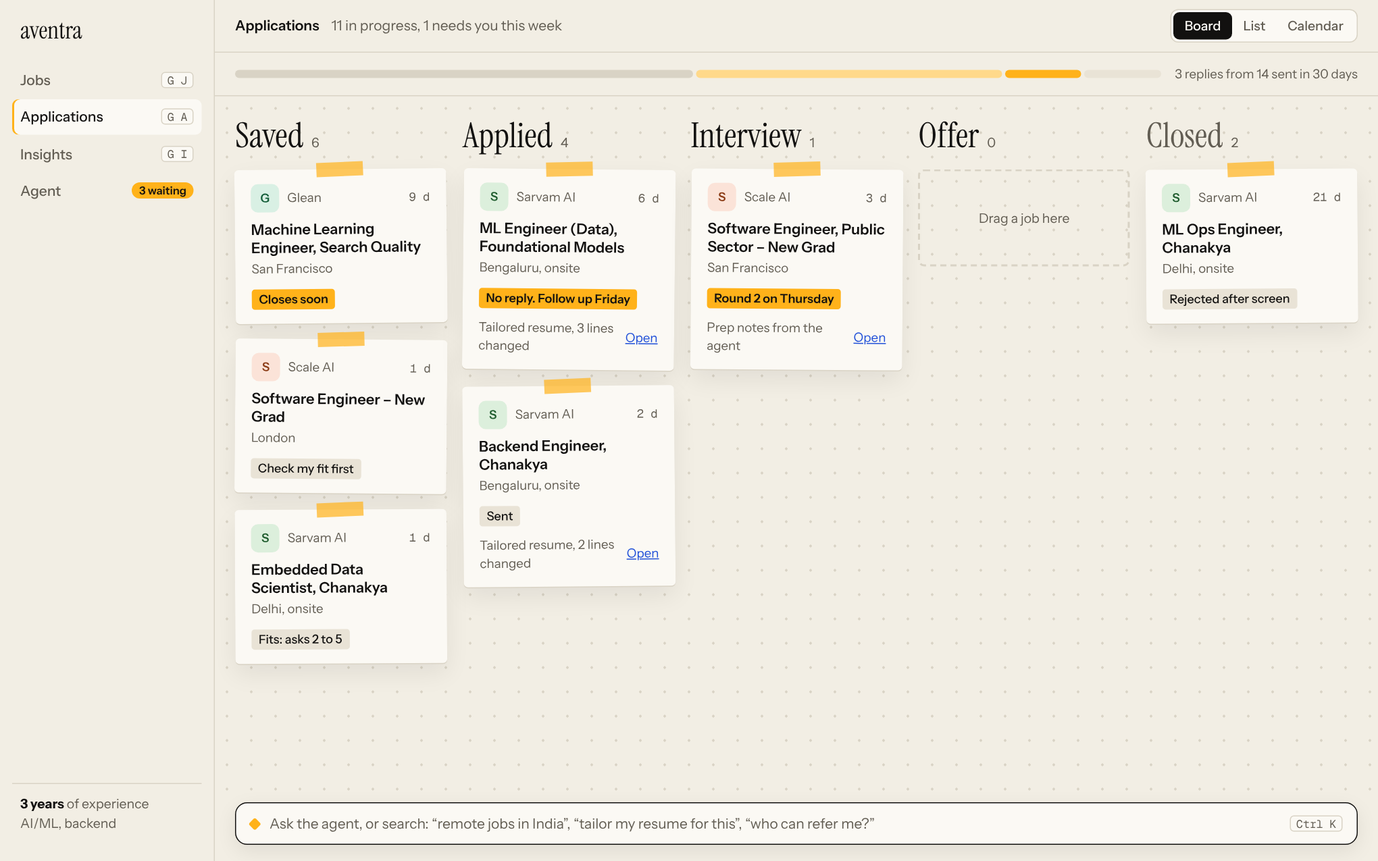
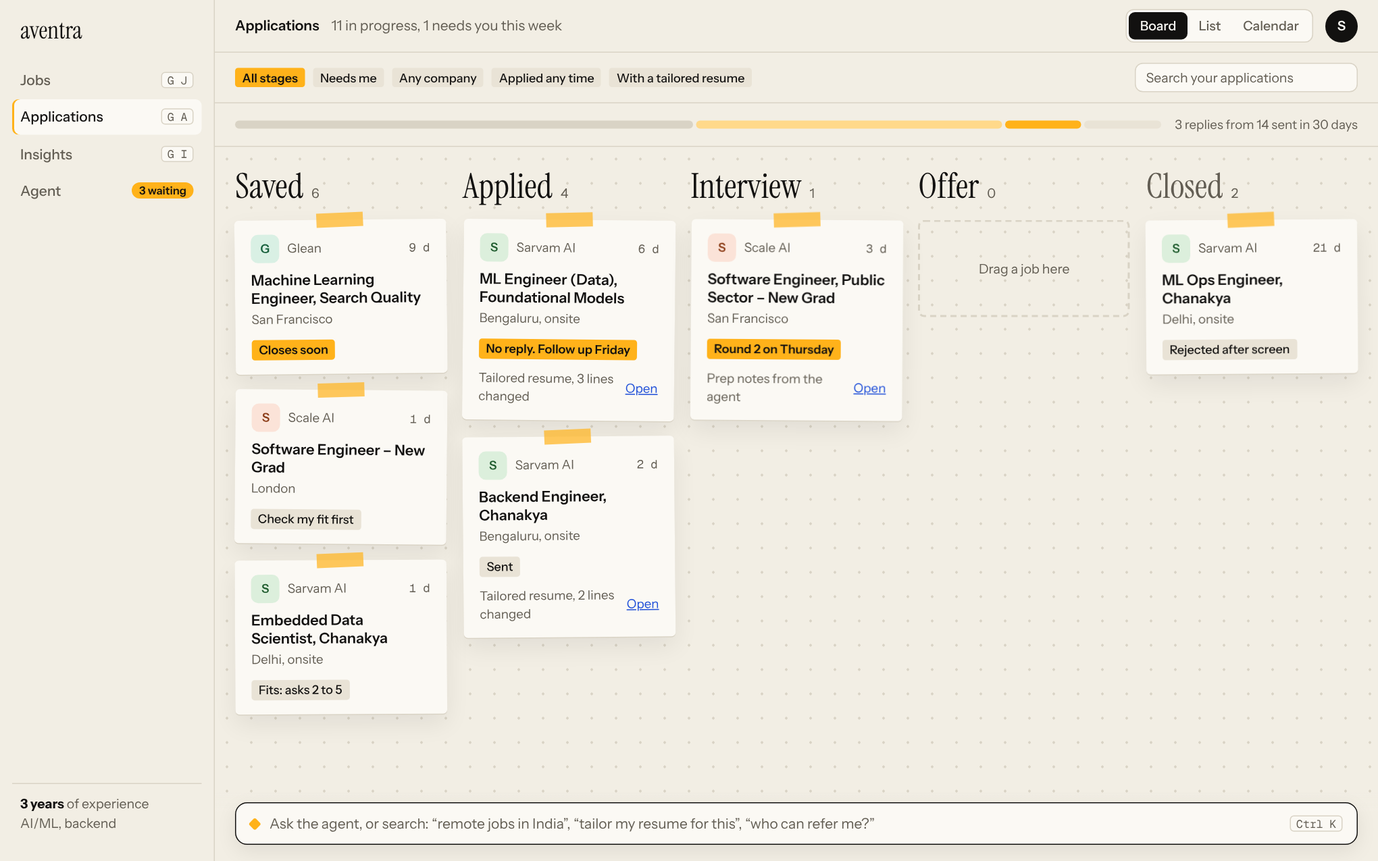
docs: approved app layout, and the worldwide plan rewritten for all roles matched per person
Claude-Session: https://claude.ai/code/session_01BqkopMriTGGXzer1ym3YQQ

diff --git a/docs/wireframes/app-v2.html b/docs/wireframes/app-v2.html
@@ -47,7 +47,11 @@
   main { display: flex; flex-direction: column; min-width: 0; }
   .top { display: flex; align-items: center; gap: 12px; height: 52px; padding: 0 20px; border-bottom: 1px solid var(--line); font-weight: 600; flex: none; }
   .top > span { font-weight: 400; color: var(--muted); }
-  .seg { margin-left: auto; display: flex; border: 1px solid var(--line); border-radius: 8px; padding: 2px; font-weight: 500; font-size: 13px; background: var(--raised); }
+  .bar { display: flex; gap: 8px; align-items: center; padding: 10px 20px; border-bottom: 1px solid var(--line); }
+  .bar .find { margin-left: auto; border: 1px solid var(--line); background: var(--raised); border-radius: 8px; padding: 4px 10px; color: var(--muted); font-size: 13px; width: 220px; }
+  .right { margin-left: auto; display: flex; align-items: center; gap: 12px; }
+  .who { width: 32px; height: 32px; border-radius: 50%; background: var(--ink); color: var(--raised); display: grid; place-items: center; font-weight: 600; font-size: 13px; }
+  .seg { display: flex; border: 1px solid var(--line); border-radius: 8px; padding: 2px; font-weight: 500; font-size: 13px; background: var(--raised); }
   .seg b { padding: 4px 11px; font-weight: 500; color: var(--muted); border-radius: 6px; } .seg b.on { background: var(--ink); color: var(--raised); }
   .body { flex: 1; min-height: 0; }
   .ask { position: sticky; bottom: 0; padding: 10px 20px 16px; background: linear-gradient(transparent, var(--paper) 30%); }
@@ -131,19 +135,16 @@ const NAV = [["jobs", "Jobs", ""], ["apps", "Applications", ""], ["insights", "I
 const shell = (title, sub, seg, body, ask = true) => `<div class="app"><aside><div class="brand">aventra</div>
   ${NAV.map(([k, l, x]) => `<a class="${k === s || (k === "agent" && s === "resumes") ? "on" : ""}">${l}${x || `<kbd>G ${l[0]}</kbd>`}</a>`).join("")}
   <div class="me"><b>3 years</b> <span class="mu">of experience</span><br><span class="mu">AI/ML, backend</span></div></aside>
-  <main><div class="top">${title} <span>${sub}</span>${seg ? `<div class="seg">${seg[0].map((x, i) => `<b class="${i === seg[1] ? "on" : ""}">${x}</b>`).join("")}</div>` : ""}</div>
+  <main><div class="top">${title} <span>${sub}</span><div class="right">${seg ? `<div class="seg">${seg[0].map((x, i) => `<b class="${i === seg[1] ? "on" : ""}">${x}</b>`).join("")}</div>` : ""}<span class="who" title="Profile and sign out">S</span></div></div>
   <div class="body">${body}</div>
   ${ask ? `<div class="ask"><div><i class="spark"></i>Ask the agent, or search: “remote jobs in India”, “tailor my resume for this”, “who can refer me?”<kbd>Ctrl K</kbd></div></div>` : ""}</main></div>`;
 
 const V = {
   jobs() {
     const row = (j, sel) => `<div class="row ${sel ? "sel" : ""}" style="grid-template-columns:28px 1fr 60px 96px">${co(j[1])}<div style="min-width:0"><div class="clip" style="font-weight:500">${j[6] ? '<span class="hl" style="font-size:11px;font-weight:600;margin-right:6px">New</span>' : ""}${j[0]}</div><div class="mu clip sm">${j[1]}, ${j[2]}, ${j[3]}</div></div><span class="serif" style="font-size:20px;text-align:right">${j[4] == null ? '<span class="mu" style="font:11px var(--sans)">Not stated</span>' : yrs(j[4], j[5])}</span>${ruler(j[4], j[5])}</div>`;
-    const fits = J.filter((j) => j[4] > 0 && j[4] <= ME), fresh = J.filter((j) => j[4] === 0), ns = J.filter((j) => j[4] == null);
     return shell("Jobs", "33 open for 3 years of experience", [["List", "Board by years", "Map"], 0], `<div style="display:grid;grid-template-columns:1fr 430px;height:100%"><div>
-      <div style="display:flex;gap:8px;padding:10px 20px;border-bottom:1px solid var(--line)"><span class="tag">3 years</span><span class="tag q">AI/ML, backend</span><span class="tag q">Anywhere</span><span class="tag q">Any workplace</span><span class="mu sm" style="margin-left:auto;align-self:center">Grouped by fit</span></div>
-      <div class="grp">Asks for your level <span>2 to 3 years, 21 jobs</span></div>${fits.map((j, i) => row(j, i === 1)).join("")}
-      <div class="grp">Asks for less than you have <span>0 to 1 years, 8 jobs</span></div>${fresh.map((j) => row(j)).join("")}
-      <div class="grp">Years not stated <span>read before applying, 4 jobs</span></div>${ns.map((j) => row(j)).join("")}</div>
+      <div class="bar"><span class="tag">3 years</span><span class="tag q">AI/ML, backend</span><span class="tag q">Anywhere</span><span class="tag q">Any workplace</span><span class="tag q">Posted any time</span><span class="mu sm" style="margin-left:auto">Newest first</span></div>
+      ${J.filter((j) => j[4] == null || j[4] <= ME).map((j, i) => row(j, i === 4)).join("")}</div>
       <div class="peek"><div class="mu">Sarvam AI, Bengaluru, onsite</div><h2>ML Engineer (Data), Foundational Models</h2>${ruler(3, null, 370)}
       <blockquote>“<span class="hl">3+ years of experience</span> building large-scale data systems”</blockquote><div class="mu sm">The line that decided it. You have 3, so it fits.</div>
       <div style="display:flex;gap:8px;margin-top:22px;flex-wrap:wrap"><span class="btn">Apply <kbd style="background:none;border-color:rgb(18 17 16/.3);color:var(--ink)">A</kbd></span><span class="btn q">Save <kbd>S</kbd></span><span class="btn q"><i class="spark"></i>Get this ready with the agent</span></div>
@@ -152,6 +153,7 @@ const V = {
   apps() {
     const card = (j, next, days, res, rot, gold = true) => `<div class="note tape" style="transform:rotate(${rot}deg)"><div style="display:flex;gap:8px;align-items:center;margin-bottom:8px">${co(j[1])}<span class="mu sm">${j[1]}</span><span class="mono mu" style="margin-left:auto;font-size:11.5px">${days}</span></div><h4>${j[0]}</h4><p>${j[2]}</p><span class="tag ${gold ? "" : "q"}">${next}</span>${res ? `<div class="foot sm"><span class="mu">${res}</span><span style="color:var(--link);text-decoration:underline">Open</span></div>` : ""}</div>`;
     return shell("Applications", "11 in progress, 1 needs you this week", [["Board", "List", "Calendar"], 0], `
+      <div class="bar"><span class="tag">All stages</span><span class="tag q">Needs me</span><span class="tag q">Any company</span><span class="tag q">Applied any time</span><span class="tag q">With a tailored resume</span><span class="find">Search your applications</span></div>
       <div style="display:flex;align-items:center;gap:14px;padding:12px 20px;border-bottom:1px solid var(--line)"><div style="display:flex;gap:3px;flex:1"><i style="flex:6;height:8px;border-radius:4px;background:var(--line)"></i><i style="flex:4;height:8px;border-radius:4px;background:var(--soft)"></i><i style="flex:1;height:8px;border-radius:4px;background:var(--gold)"></i><i style="flex:1;height:8px;border-radius:4px;background:var(--surface)"></i></div><span class="sm mu">3 replies from 14 sent in 30 days</span></div>
       <div class="board">
       <div><h3>Saved<span>6</span></h3>${card(J[0], "Closes soon", "9 d", "", -.6)}${card(J[2], "Check my fit first", "1 d", "", .5, false)}${card(J[6], "Fits: asks 2 to 5", "1 d", "", -.3, false)}</div>

diff --git a/docs/strategy/worldwide-coverage.md b/docs/strategy/worldwide-coverage.md
@@ -1,16 +1,19 @@
-# Plan: companies and jobs from every country (2026-11-11)
+# Plan: every job, every country, filtered by each person's preferences (2026-11-11)
 
-Shrey's call (2026-11-11): Aventra lists **every country, all jobs**. Someone in Berlin or São
-Paulo should see local jobs, not only jobs open to people in India. This replaces point 3 of
-`company-coverage.md` ("global companies: keep only India, remote, and visa/relocation jobs").
+Shrey's calls (2026-11-11):
 
-**Analogy.** Today Aventra is a city library: it buys only the books its own neighbourhood reads.
-A world board is a national library, and the hard part of a national library is the shelf space
-and the catalogue, not finding books. Most of this plan is about shelves (storage) and the
-catalogue (locations and languages); the list of companies is the easy half.
+1. Aventra lists **every country**. Someone in Berlin or São Paulo sees local jobs. This replaces
+   point 3 of `company-coverage.md` (keep only India, remote and visa/relocation jobs).
+2. Aventra fetches **all jobs, every role**, and **each person filters them by their own
+   preferences**. This replaces the earlier recommendation in this file to keep tech roles only.
 
-Status: a plan. Nothing here is built. Six choices in the last section are Shrey's to make before
-work starts.
+**Analogy.** Today Aventra is a personal shopper: it walks the market with one shopping list
+(`config/profile.yaml`) and brings back only what is on it. The new Aventra is a supermarket:
+everything is on the shelves with an honest label, and each shopper walks in with their own
+list. So the pipeline's job changes from "decide what fits Shrey" to "label every job truthfully",
+and deciding what fits moves to the moment a person looks.
+
+Status: a plan. Nothing here is built. The open choices are in the last section.
 
 ## Where we are
 
@@ -18,121 +21,153 @@ work starts.
 |---|---:|
 | Companies in `config/companies.yaml` | 703 |
 | Careers systems we read | 14 (Ashby 361, Greenhouse 82, Workday 53, Lever 41, others 99) |
-| Companies with no system found yet | 67 |
 | Open jobs stored | ~27k (figure from October; to re-measure) |
 | Database used | ~190 MB of 500 MB (figure from 2026-10-19; to re-measure) |
 
-Two things in the code keep the board India-shaped:
+Four things in the code keep the board shaped around one person in India:
 
-1. `india_only` on the big global boards, plus the location screen in `scripts/fetch_jobs.py`,
-   drop non-India jobs before they are stored.
-2. The rules in `extract/` read English only. A German posting that says "3 Jahre
-   Berufserfahrung" has no years found today.
+1. **One shopping list at fetch time.** `scripts/fetch_jobs.py` runs `match_role(...)` against
+   `config/profile.yaml` and stores `role_match` and one of four tech families. Every other
+   job is stored without a family, and the API's default list is `role_match` only.
+2. **Title screen.** `sources/prefilter.py` drops non-tech titles on Workday and Darwinbox before
+   their descriptions are fetched.
+3. **India screen.** `india_only` boards keep India and remote jobs only.
+4. **English only.** The rules in `extract/` read English. "3 Jahre Berufserfahrung" finds no years.
 
-## The constraint that shapes everything: 500 MB
+## Part 1. Label every job, match per person
 
-With the India filter on, the database is already near 40% full. Workday tenants of large
-companies list thousands of jobs each, so turning the filter off for the 703 companies we
-already have would pass 500 MB before a single new company is added. Storage is decided first
-(decision 1 below); the rest of the plan assumes option B.
+### What the pipeline stores (facts about the job, the same for everyone)
+| Fact | Today | Change |
+|---|---|---|
+| Years asked, with the evidence line | Yes | None. The precision rule is unchanged |
+| **Job family** | 4 tech families, only when it fits Shrey's profile | Every job gets one family from a fixed list, with the title words that decided it; "Other" when no rule is sure |
+| Country and city | Yes, India-centred list | Every country (Part 4) |
+| Workplace (remote, hybrid, onsite) | Yes | None |
+| Visa sponsorship, batch years, pay as written | Yes | None |
+| Skills named | Tech skills from `config/skills.yaml` | Same at first; other families get skills later, one catalogue at a time |
+| Language of the posting | No | New (Part 4) |
 
-| Option | How it works | Fits roughly | Cost |
+`role_match` and "target roles" leave the pipeline. `config/profile.yaml` stops deciding what is
+stored; it becomes Shrey's own preferences, like anyone else's.
+
+### The job-family list
+A new `config/job_families.yaml`: about 25 families with title rules, tested on fixtures like the
+years rules. A draft, to be pruned by Shrey:
+
+Software engineering · AI and machine learning · Data and analytics · Mobile · DevOps and
+infrastructure · Security · QA and testing · Hardware and embedded · Product · Design · Marketing ·
+Sales · Customer success and support · Finance and accounting · People and recruiting · Legal ·
+Operations and supply chain · Healthcare and life sciences · Research · Education · Content and
+writing · Manufacturing and skilled trades · Administration · Other.
+
+Same rule as years: a wrong family is worse than "Other". A job filed under "Other" is still
+found by search and by every other filter.
+
+### What each person sets (preferences, kept in their profile)
+Years of experience · families (several) · countries and cities · workplace · whether they need
+visa sponsorship, and from which country · skills · lowest pay, optional.
+
+The job list opens on these and every one can be changed on the page, as now. Matching is a
+database filter at request time, so it has to stay one indexed read: family, country and years
+get a combined index, and counts keep coming from the per-run snapshot.
+
+Signed-out visitors see everything, newest first, with the filters open.
+
+## Part 2. The constraint that shapes everything: 500 MB
+
+With the India and tech screens on, the database is already near 40% full. All roles in all
+countries is far more: one large Workday company lists thousands of jobs.
+
+| Option | How it works | Holds roughly | Cost |
 |---|---|---|---|
-| A. Keep everything in Postgres | No change | ~70k jobs | Full within weeks |
-| **B. Card in Postgres, text in object storage (recommended)** | Postgres keeps what the list and filters need (title, company, location, years, evidence line, skills). The three stored sections move to Cloudflare R2 (free: 10 GB, 1M writes and 10M reads a month) and load when a job is opened | ~400k–500k jobs | The API reads R2 for the detail view; one more moving part |
-| C. Tech roles only | Keep the current title screen (`sources/prefilter.py`) for every board, so sales, retail and operations jobs are never stored | Cuts volume to perhaps a quarter | "All jobs" becomes "all tech jobs" |
-| D. Short shelf life | Delete closed jobs after 14 days instead of keeping them | Saves 20–30% | Less history for Insights |
+| A. Everything in Postgres | No change | ~70k jobs | Full within weeks |
+| **B. Card in Postgres, text elsewhere (recommended)** | Postgres keeps what lists and filters need: title, company, family, places, years, evidence line, skills. The stored description moves to Cloudflare R2 (free: 10 GB, 1M writes and 10M reads a month) and loads when a job is opened | ~400k–500k jobs | The API reads R2 for the detail view; search covers title and company, not full text |
+| D. Short shelf life | Delete closed jobs after 14 days | Saves 20–30% | Less history for Insights; market trends keep weekly totals, not rows |
 
-B and C combine. My recommendation is B + C + D: every country, tech and data roles, text in R2.
-The row-size numbers above are estimates; step 0 measures them.
+Recommended: **B + D**. Option C (tech roles only) is off the table after decision 2.
 
-## The plan, in five layers
+**The honest ceiling.** Free storage holds a few hundred thousand open jobs, not every job on
+earth, which is in the tens of millions. So "all jobs" means all jobs *from the companies we
+read*, and the order in which companies are added decides what people find (decision 2 below).
+These sizes are estimates until step 0 measures a real row.
 
-### 0. Measure (half a day)
-Average bytes per job row and per index, jobs per company by careers system, and how many jobs
-the India screen drops per run today. That one number says how many jobs "everything" is.
+## Part 3. Who and how: companies and careers systems
 
-### 1. Open the tap we already have (largest gain, no new source)
-- Replace `india_only` with a per-company `regions` setting that defaults to all.
-- Remove the India screen for one careers system at a time, smallest first (Greenhouse, Lever,
-  Ashby), watching database size after each. Workday last.
-- Check: jobs stored per country before and after; fetch run stays under 90 minutes.
-
-### 2. Who: find companies in every country
+### Find companies in every country
 | Source | What it adds | Terms |
 |---|---|---|
-| **Common Crawl URL index** | Every address it has seen on the careers systems' own hosts (`*.myworkdayjobs.com`, `jobs.lever.co/*`, `*.jobs.personio.de`, `*.teamtailor.com`, `*.recruitee.com`, `*.gupy.io`...). The system and the company's ID are in the address, so no detection is needed. This was phase C of the India plan with an India filter; without the filter it is the main source | Free, public, built for this use |
-| **Wikidata** | Companies by country with their official website (P17, P856), to feed the detector for countries Common Crawl covers thinly | CC0 |
+| **Common Crawl URL index** | Every address it has seen on the careers systems' own hosts (`*.myworkdayjobs.com`, `jobs.lever.co/*`, `*.jobs.personio.de`, `*.teamtailor.com`, `*.recruitee.com`, `*.gupy.io`...). The system and the company's ID are in the address, so no detection is needed | Free, public, built for this use |
+| **Wikidata** | Companies by country with their official website (P17, P856), for the detector | CC0 |
 | **yc-oss dataset** | Already imported; drop the AI-only filter | Free |
-| **Public GitHub lists** | New-grad and remote-job lists maintained per region | Public repos |
+| **Public GitHub lists** | New-grad and remote-job lists per region | Public repos |
 | **HN "Who is hiring?"** | Already read | Public API |
 
 Still never used: LinkedIn, Indeed, Glassdoor.
 
-Common Crawl will return tens of thousands of boards. Add them in batches of about 500, each
-batch going through the existing verify step, so one bad batch can be undone.
+Common Crawl returns tens of thousands of boards. They go into a generated file beside the
+curated `config/companies.yaml`, in batches of about 500, each through the existing verify step.
 
-### 3. How: careers systems by region
-The 14 systems we read are strong in the US and India. Other regions run on systems we don't
-read yet. Order by how many companies each unlocks; every one gets a robots.txt and terms check
-before an adapter is written, and is skipped if it refuses.
+### Careers systems by region
+Every new system gets a robots.txt and terms check first, and is skipped if it refuses.
 
 | Region | Systems to add | Notes |
 |---|---|---|
-| Europe | Personio, Teamtailor, Recruitee, JOIN | All publish a per-company public feed; Personio's is XML |
+| Europe | Personio, Teamtailor, Recruitee, JOIN | All publish a per-company public feed |
 | US mid-market | Rippling, Gem, BambooHR, iCIMS, Jobvite | The detector already names the first two |
 | Large companies everywhere | SuccessFactors, Phenom, Taleo | Partly covered by `careersite.py` through sitemaps |
 | Latin America | Gupy | Brazil's most common system |
-| Japan and Korea | HRMOS, Herp, Wanted | Postings mostly not in English; depends on layer 4 |
-| Any own careers site | `careersite.py` (schema.org `JobPosting`) | Already works wherever the site has a sitemap |
+| Japan and Korea | HRMOS, Herp, Wanted | Mostly not in English; depends on Part 4 |
+| Any own careers site | `careersite.py` (schema.org `JobPosting`) | Works wherever the site has a sitemap |
 
-### 4. Catalogue: make a world of jobs filterable and correct
-- **Locations.** `config/locations.yaml` is India-centred. Add countries and cities from
-  GeoNames (free, CC BY) so every job gets a country code. One job listed in five cities stays
-  one row with five places.
-- **Languages.** Detect each posting's language. A language without rules gives **"Not stated"**,
-  never fresher: the precision rule holds everywhere. Then add years-of-experience rules one
-  language at a time, each with its own fixtures in `tests/fixtures/` before any rule ships.
-  Suggested order: German, French, Spanish, Portuguese, then Japanese.
-- **Visa.** "Abroad with visa" assumes the reader is in India. The profile needs a home country
-  so the filter means "outside my country, with sponsorship".
-- **The page.** Country as the first location filter, set from the profile; the API query gets
-  an index on country so the list stays one indexed read.
+## Part 4. Make a world of jobs filterable and correct
+- **Locations.** Add countries and cities from GeoNames (free, CC BY) so every job gets a country
+  code. A job listed in five cities stays one row with five places.
+- **Languages.** Detect each posting's language. A language without rules gives **"Not stated"**
+  for years and **"Other"** for family, never a guess. Then add rules one language at a time,
+  each with fixtures first. Suggested order: German, French, Spanish, Portuguese, Japanese.
+- **Visa.** "Abroad with visa" assumes the reader is in India. With a home country in the
+  profile it means "outside my country, with sponsorship".
 
-### 5. Keep: free-tier budget at world scale
+## Part 5. Stay inside the free tiers
 | Limit | Today | At world scale | What we do |
 |---|---|---|---|
-| Supabase 500 MB | ~190 MB | Over, without layer 0 and decision 1 | R2 for text, tech roles only, short shelf life |
-| GitHub Actions | 11–20 min per 3-hourly run | Hours if run as one job | Split by careers system into parallel jobs; big boards daily; ETag so unchanged boards cost one request. Free while the repo is public |
+| Supabase 500 MB | ~190 MB | Over, without Part 2 | R2 for text, short shelf life, measured ceiling |
+| GitHub Actions | 11–20 min per 3-hourly run | Hours as one job | One job per careers system, in parallel; large boards daily; ETag so an unchanged board costs one request. Free while the repo is public |
 | Workers 100k requests a day | Low | Fine for thousands of daily users | Cache list responses at the edge for a minute |
 | Hyperdrive 100k queries a day | Low | Same | Same cache |
-| Careers hosts | Per-host rate limit in `sources/http.py` | 50× the companies on the same hosts | Keep the per-host limit; total run time grows instead of request rate |
+| Careers hosts | Per-host rate limit in `sources/http.py` | Many more companies on the same hosts | Keep the per-host limit; run time grows, request rate does not |
+| Detail requests | Title screen avoids them | Every job's description is needed once | Fetch a description only for a new or changed job (hash of the listing), never per run |
 
 ## Phases
 
 | Phase | Work | Gain | Done when |
 |---|---|---|---|
-| 0 | Measure; decide storage | A real ceiling | Numbers in this file |
-| 1 | Storage change (R2 or chosen option) | Room for ~10× the jobs | A job opens from R2 in production |
-| 2 | Country codes on every job; country filter on the page | The board is usable outside India | Every stored job has a country |
-| 3 | Remove the India screen, system by system | 3–5× the jobs from the companies we have | No `india_only` left |
-| 4 | Common Crawl import for systems we already read | Thousands of companies, mostly US and Europe | First 2,000 verified |
-| 5 | Europe adapters (Personio, Teamtailor, Recruitee, JOIN) | Germany, Nordics, Netherlands, France | Fixtures pass; boards fetched |
-| 6 | German and French years rules | Labels on those jobs, not "Not stated" | Fresher precision on new fixtures does not drop |
-| 7 | Further regions and languages, one at a time | Latin America, Japan, the Gulf, Southeast Asia | Per region |
+| 0 | Measure bytes per job, jobs per company by system, and what the two screens drop today | A real ceiling | Numbers in this file |
+| 1 | Storage: text to R2, slim rows, shelf life | Room for ~10× the jobs | A job opens from R2 in production |
+| 2 | Job families: the list, the rules, fixtures; label every stored job | Every job has a family | Family precision measured on fixtures |
+| 3 | Preferences in the profile; the API filters by them; the page opens on them | The board works for any person | Two test profiles see different lists from the same data |
+| 4 | Country codes on every job; country filter | Usable outside India | Every stored job has a country |
+| 5 | Remove the title screen and the India screen, one careers system at a time, watching size | All jobs from the 703 companies | No `india_only`, no title screen |
+| 6 | Common Crawl import for systems we already read | Thousands of companies | First 2,000 verified |
+| 7 | New regions: adapters, then language rules | Europe first, then the rest | Per region |
 
-Phases 0–3 need no new source and make the board global for the companies already listed.
+Phases 0–5 need no new source. After them Aventra is a general job board for the companies it
+already reads; 6 and 7 are growth.
 
-## Decisions for Shrey
+## Decisions
 
-1. **Storage:** A, B, C, D or a mix. Recommended: B + C + D.
-2. **"All jobs":** every role, or tech and data roles in every country? Recommended: tech and
-   data. Aventra's labels and skills are built for them, and it is a quarter of the volume.
-3. **First region after the US:** Europe, Southeast Asia or the Gulf. Recommended: Europe, since
-   its systems publish clean feeds and many roles there sponsor visas.
-4. **Languages:** English only at first, with other languages shown as "Not stated", or rules
-   for German and French before Europe launches. Recommended: English first.
-5. **Company quality bar:** Common Crawl includes tiny and dead companies. Add everything that
-   verifies, or only boards with at least one open tech job. Recommended: at least one.
-6. **The curated list:** keep `config/companies.yaml` hand-reviewed and put imported companies in
-   a second, generated file. Recommended: yes, so reviews of the curated file stay readable.
+**Decided (Shrey, 2026-11-11):** every country · all roles, filtered per person.
+
+**Open:**
+1. **Storage.** A, B, D or a mix. Recommended: B + D.
+2. **When the free ceiling is reached, who gets in first?** By company size · by a region order ·
+   tech and data companies first, then the rest. Recommended: a region order, so each new
+   region is complete when it launches.
+3. **First region after what we have.** Europe · Southeast Asia · the Gulf. Recommended: Europe;
+   its systems publish clean feeds.
+4. **Languages.** English only at first, others shown as "Not stated" · German and French rules
+   before Europe launches. Recommended: English first.
+5. **Family list.** The ~25 above, pruned by Shrey · fewer, broader families. Recommended: the
+   ~25; merging later is easy, splitting is a re-label.
+6. **Company quality bar for imports.** Everything that verifies · at least one open job.
+   Recommended: at least one.

diff --git a/docs/decisions.md b/docs/decisions.md
@@ -14,6 +14,25 @@ Newest first. Each entry: date, options considered, choice, why.
   filter on). The plan and six open choices (storage first) are in
   `docs/strategy/worldwide-coverage.md`. Nothing is built until Shrey picks.
 
+## 2026-11-11 — All roles, matched per person at request time
+- **Options:** tech and data roles only (a quarter of the volume) · every role
+- **Choice (Shrey):** fetch every job, every role, and let each person filter by their own
+  preferences.
+- **Consequence:** the pipeline stops matching jobs against `config/profile.yaml`. It labels
+  every job with profile-independent facts (a job family from a fixed list, years, places,
+  workplace, visa, skills) and the API filters by the signed-in person's preferences.
+  `role_match` goes; the title screen and the India screen go. Free storage then holds a few
+  hundred thousand open jobs, so the order companies are added in becomes a product decision.
+  Plan and open choices: `docs/strategy/worldwide-coverage.md` (rewritten today).
+
+## 2026-11-11 — App layout approved (Shrey)
+- **Approved:** the four-section sketch in `docs/wireframes/app-v2.html`, with three changes
+  Shrey asked for, now in the sketch: a profile button at the top right of every page; a filter
+  bar above the Applications board; the Jobs list is flat, newest first, without the
+  grouped-by-fit sections.
+- **Next:** build in the order shell and Jobs, Applications, Insights, Agent. The agent's open
+  questions below still stand.
+
 ## 2026-11-11 — The app's four sections, and the layout for them (sketch stage)
 - **Sections (Shrey):** Jobs · Applications (track every job applied to) · Insights, with the
   market merged in (what companies ask for against the person's profile, how to close each gap,
